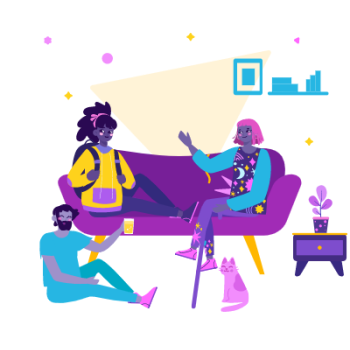
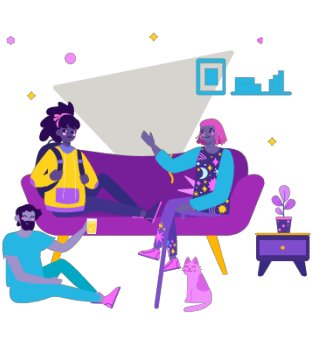
splash screen completed

diff --git a/lib/screens/splash_screen.dart b/lib/screens/splash_screen.dart
@@ -1,5 +1,8 @@
 import 'package:flutter/material.dart';
 import 'package:google_fonts/google_fonts.dart';
+import 'package:slice_ui_chatapp_figma/screens/login_screen.dart';
+
+import '../widgets/long_button.dart';
 
 class SplashScreen extends StatelessWidget {
   const SplashScreen({super.key});
@@ -9,49 +12,69 @@ class SplashScreen extends StatelessWidget {
     return SafeArea(
       child: Scaffold(
         body: Padding(
-          padding: const EdgeInsets.symmetric(horizontal: 28, vertical: 4),
+          padding: const EdgeInsets.symmetric(horizontal: 8, vertical: 4),
           child: Column(
             crossAxisAlignment: CrossAxisAlignment.start,
             children: [
               const SizedBox(
-                height: 48.0,
+                height: 12.0,
               ),
               Padding(
-                padding: const EdgeInsets.only(
-                  left: 48,
+                padding: EdgeInsets.only(
+                  left: 68,
                 ),
                 child: Text("Get Closer To EveryOne",
-                    style: GoogleFonts.poppins(
+                    style: TextStyle(
+                      fontFamily: GoogleFonts.poppins().fontFamily,
                       fontSize: 36,
-                      fontWeight: FontWeight.w600,
+                      fontWeight: FontWeight.w700,
                       wordSpacing: 1.2,
                     )),
               ),
               const SizedBox(
                 height: 12.0,
               ),
-               Padding(
-                padding: const EdgeInsets.only(left: 12),
-                child:  SizedBox(
+              Padding(
+                padding: const EdgeInsets.only(left: 36),
+                child: SizedBox(
                   width: 280,
                   child: Text(
-                    "Help you to contact everyone with just easy way",
+                    "Helps you to contact everyone with just easy way",
                     textAlign: TextAlign.left,
-                    style: GoogleFonts.poppins(
+                    style: TextStyle(
+                      fontFamily: GoogleFonts.poppins().fontFamily,
                       fontSize: 18.0,
                     ),
                   ),
                 ),
               ),
               const SizedBox(
-              height: 16.0,
+                height: 20.0,
               ),
-              Image.asset(
-              "assets/images/Dayflow Best Friday.png",
-              width: 64.0,
-              height: 64.0,
-              fit: BoxFit.fill,
+              Center(
+                child: Image.asset(
+                  "assets/images/Dayflow Best Friends.png",
+                  width: 320,
+                  height: 350,
+                  fit: BoxFit.fill,
+                ),
               ),
+              const SizedBox(
+                height: 40.0,
+              ),
+              LongButton(
+                buttonText: "Get Started",
+                onTap: () {
+                  Navigator.push(
+                    context,
+                    MaterialPageRoute(
+                      builder: ((_) {
+                        return const LoginScreen();
+                      }),
+                    ),
+                  );
+                },
+              )
             ],
           ),
         ),

diff --git a/lib/widgets/long_button.dart b/lib/widgets/long_button.dart
@@ -1,0 +1,40 @@
+// ignore_for_file: public_member_api_docs, sort_constructors_first
+import 'package:flutter/material.dart';
+import 'package:google_fonts/google_fonts.dart';
+
+class LongButton extends StatelessWidget {
+  const LongButton({
+    Key? key,
+    required this.onTap,
+    required this.buttonText,
+  }) : super(key: key);
+  final Function() onTap;
+  final String buttonText;
+
+  @override
+  Widget build(BuildContext context) {
+    return Center(
+      child: InkWell(
+        onTap: onTap,
+        child: Container(
+          height: 46,
+          width: 300,
+          decoration: BoxDecoration(
+            borderRadius: BorderRadius.circular(24),
+            color: Colors.purple[600],
+          ),
+          child: Center(
+            child: Text(
+              buttonText,
+              style: TextStyle(
+                fontSize: 20.0,
+                color: Colors.white,
+                fontFamily: GoogleFonts.poppins().fontFamily,
+              ),
+            ),
+          ),
+        ),
+      ),
+    );
+  }
+}

diff --git a/lib/screens/login_screen.dart b/lib/screens/login_screen.dart
@@ -1,0 +1,29 @@
+import 'package:flutter/material.dart';
+
+class LoginScreen extends StatelessWidget {
+  const LoginScreen({super.key});
+
+  @override
+  Widget build(BuildContext context) {
+    return Scaffold(
+      appBar: AppBar(
+        title: const Text("Dashboard"),
+        actions: const [],
+      ),
+      body: SingleChildScrollView(
+        child: Container(
+          padding: const EdgeInsets.all(10.0),
+          child: Column(
+            children: const [
+              Text("text",
+              style: TextStyle(
+              fontSize: 45.0,
+              ),
+              ),
+            ],
+          ),
+        ),
+      ),
+    );
+  }
+}

diff --git a/lib/main.dart b/lib/main.dart
@@ -1,7 +1,7 @@
 import 'package:flutter/material.dart';
+import 'package:google_fonts/google_fonts.dart';
 
 import 'screens/splash_screen.dart';
-
 
 void main() {
   runApp(const MyApp());
@@ -16,6 +16,7 @@ class MyApp extends StatelessWidget {
       title: 'Flutter Demo',
       debugShowCheckedModeBanner: false,
       theme: ThemeData(
+        textTheme: GoogleFonts.poppinsTextTheme(Theme.of(context).textTheme,),
         primarySwatch: Colors.blue,
       ),
       home: const SplashScreen(),
